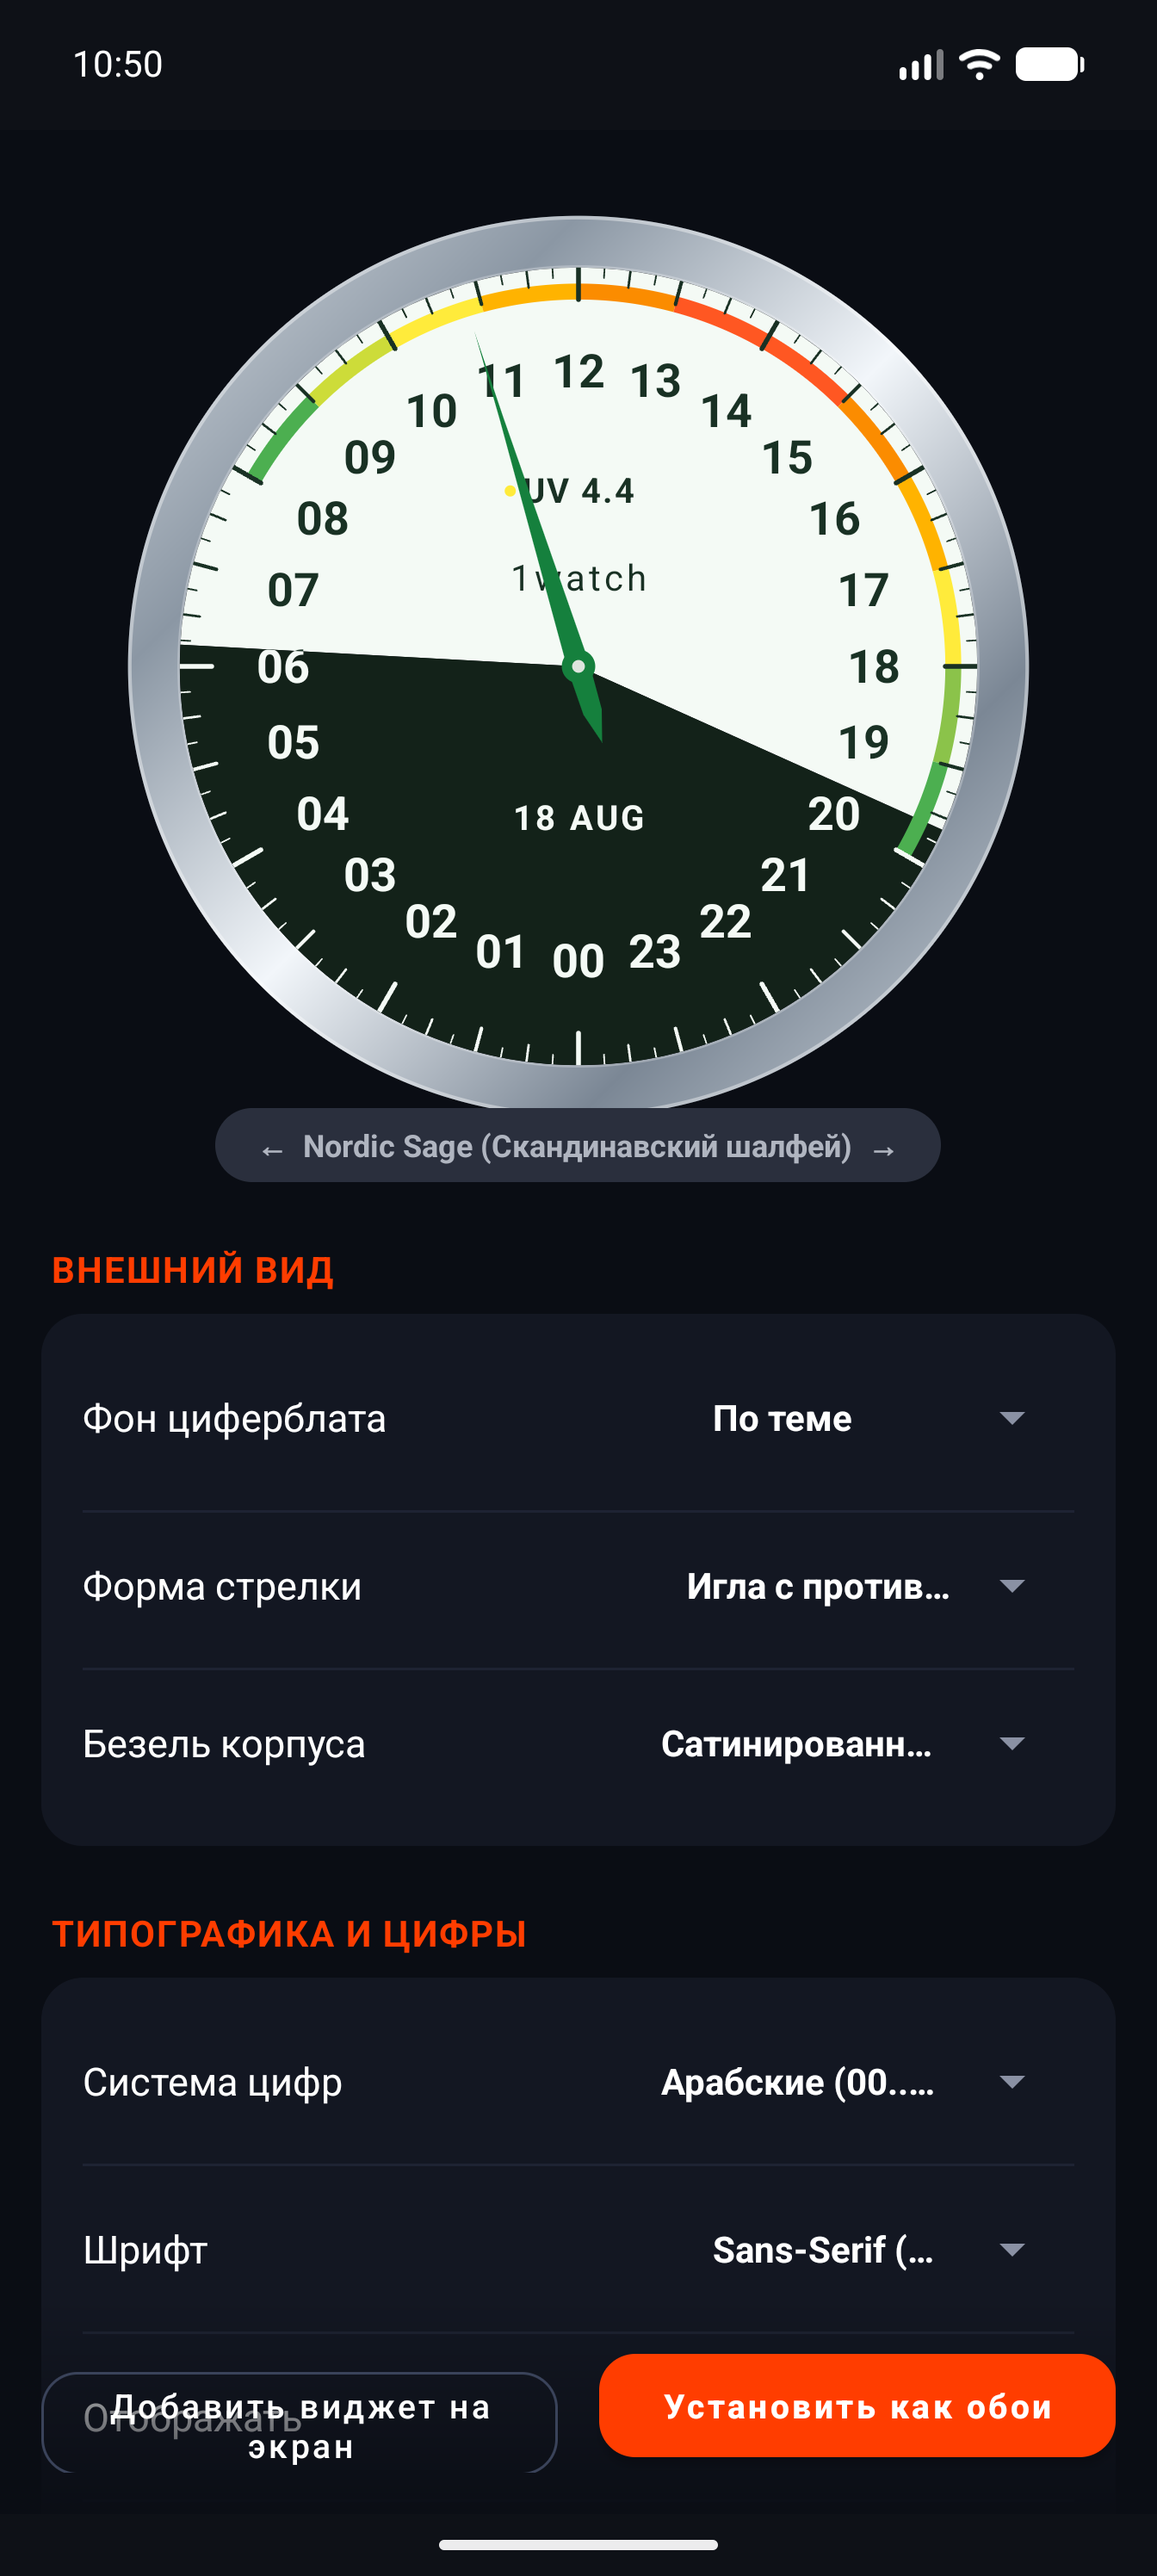
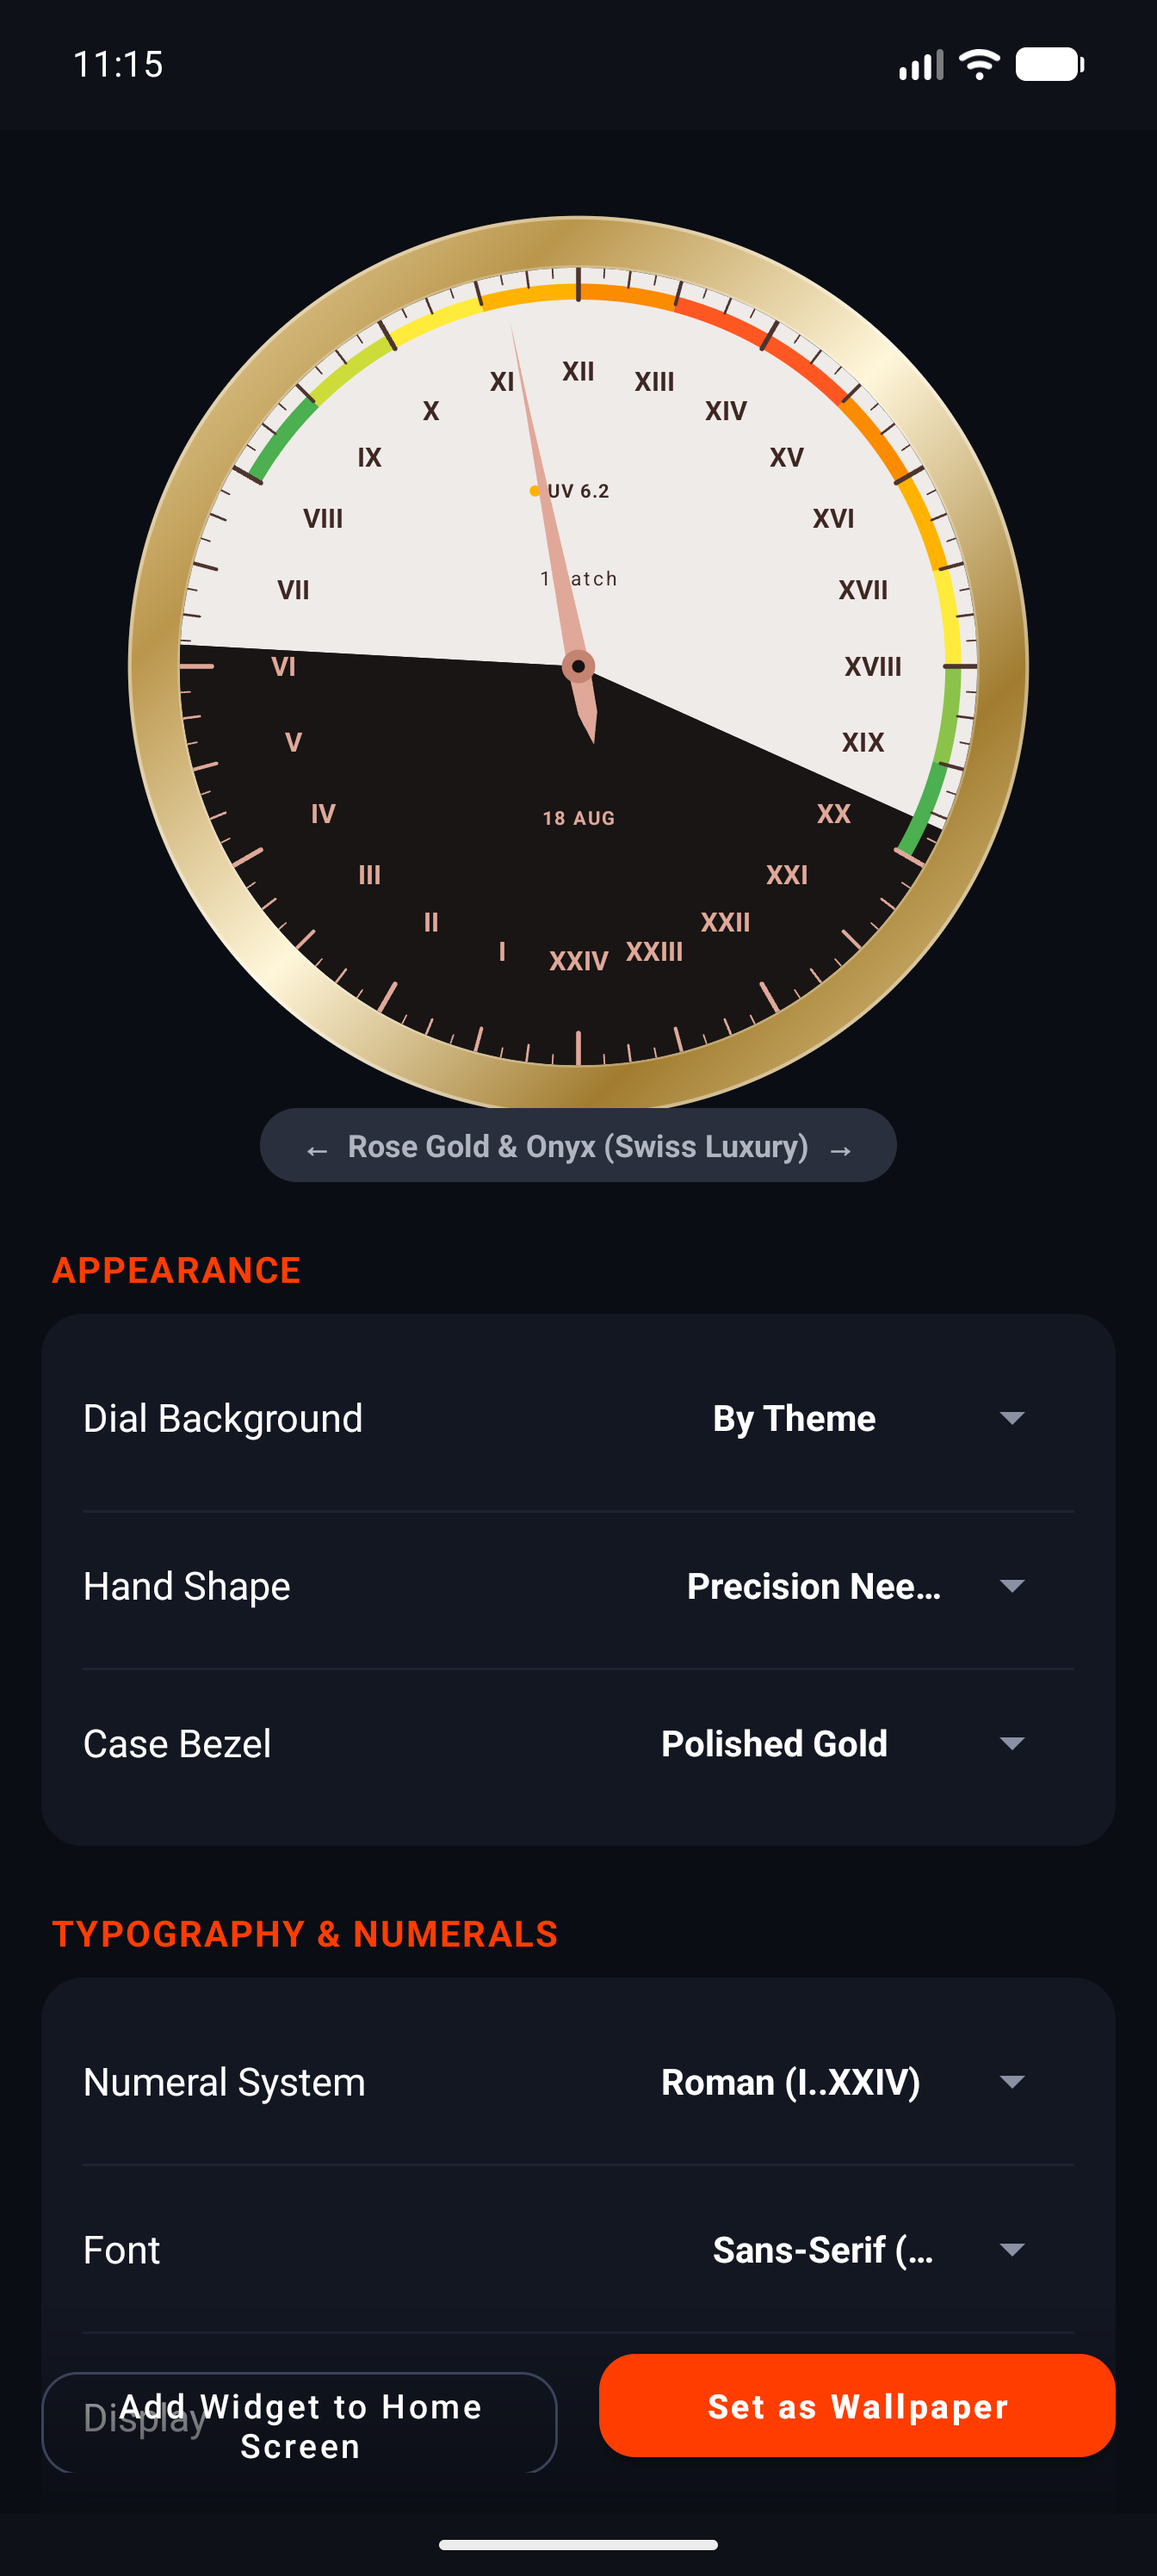
fix(store): update all screenshots to 100% English and fix AlarmManager exact alarm security exception on Android 14

diff --git a/app/src/main/java/com/uno24/wallpaper/Uno24AppWidgetProvider.kt b/app/src/main/java/com/uno24/wallpaper/Uno24AppWidgetProvider.kt
@@ -140,14 +140,36 @@ class Uno24AppWidgetProvider : AppWidgetProvider() {
             val millisUntilNextMinute = 60000L - (now % 60000L)
             val triggerAtMillis = SystemClock.elapsedRealtime() + millisUntilNextMinute
 
-            if (Build.VERSION.SDK_INT >= Build.VERSION_CODES.M) {
-                alarmManager.setExactAndAllowWhileIdle(
-                    AlarmManager.ELAPSED_REALTIME,
-                    triggerAtMillis,
-                    pendingIntent
-                )
-            } else {
-                alarmManager.setExact(
+            try {
+                if (Build.VERSION.SDK_INT >= Build.VERSION_CODES.S) {
+                    if (alarmManager.canScheduleExactAlarms()) {
+                        alarmManager.setExactAndAllowWhileIdle(
+                            AlarmManager.ELAPSED_REALTIME,
+                            triggerAtMillis,
+                            pendingIntent
+                        )
+                    } else {
+                        alarmManager.setAndAllowWhileIdle(
+                            AlarmManager.ELAPSED_REALTIME,
+                            triggerAtMillis,
+                            pendingIntent
+                        )
+                    }
+                } else if (Build.VERSION.SDK_INT >= Build.VERSION_CODES.M) {
+                    alarmManager.setExactAndAllowWhileIdle(
+                        AlarmManager.ELAPSED_REALTIME,
+                        triggerAtMillis,
+                        pendingIntent
+                    )
+                } else {
+                    alarmManager.setExact(
+                        AlarmManager.ELAPSED_REALTIME,
+                        triggerAtMillis,
+                        pendingIntent
+                    )
+                }
+            } catch (e: SecurityException) {
+                alarmManager.set(
                     AlarmManager.ELAPSED_REALTIME,
                     triggerAtMillis,
                     pendingIntent
